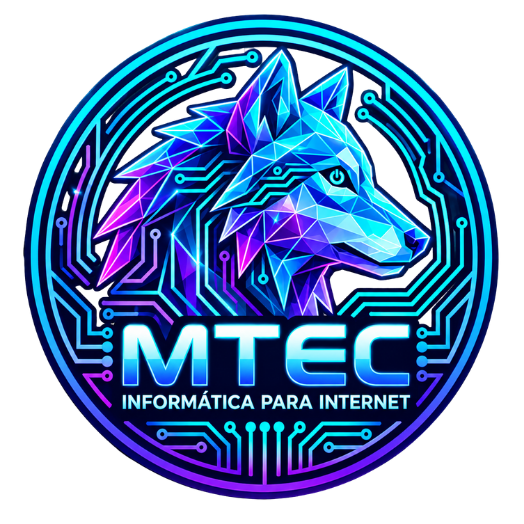
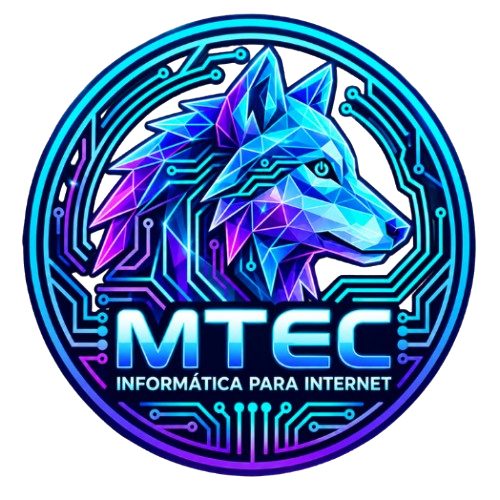
[feat] atualizações das imagens

diff --git a/index.html b/index.html
@@ -100,7 +100,7 @@
           <div class="col-lg-5 text-center mt-4 mt-lg-0">
 
             <img
-              src="imagens/mtec-lobo2.png"
+              src="imagens/mtec-lobo.png"
               alt="Lobo Mtec Informática para Internet"
               class="mtec-logo img-fluid"
             />
